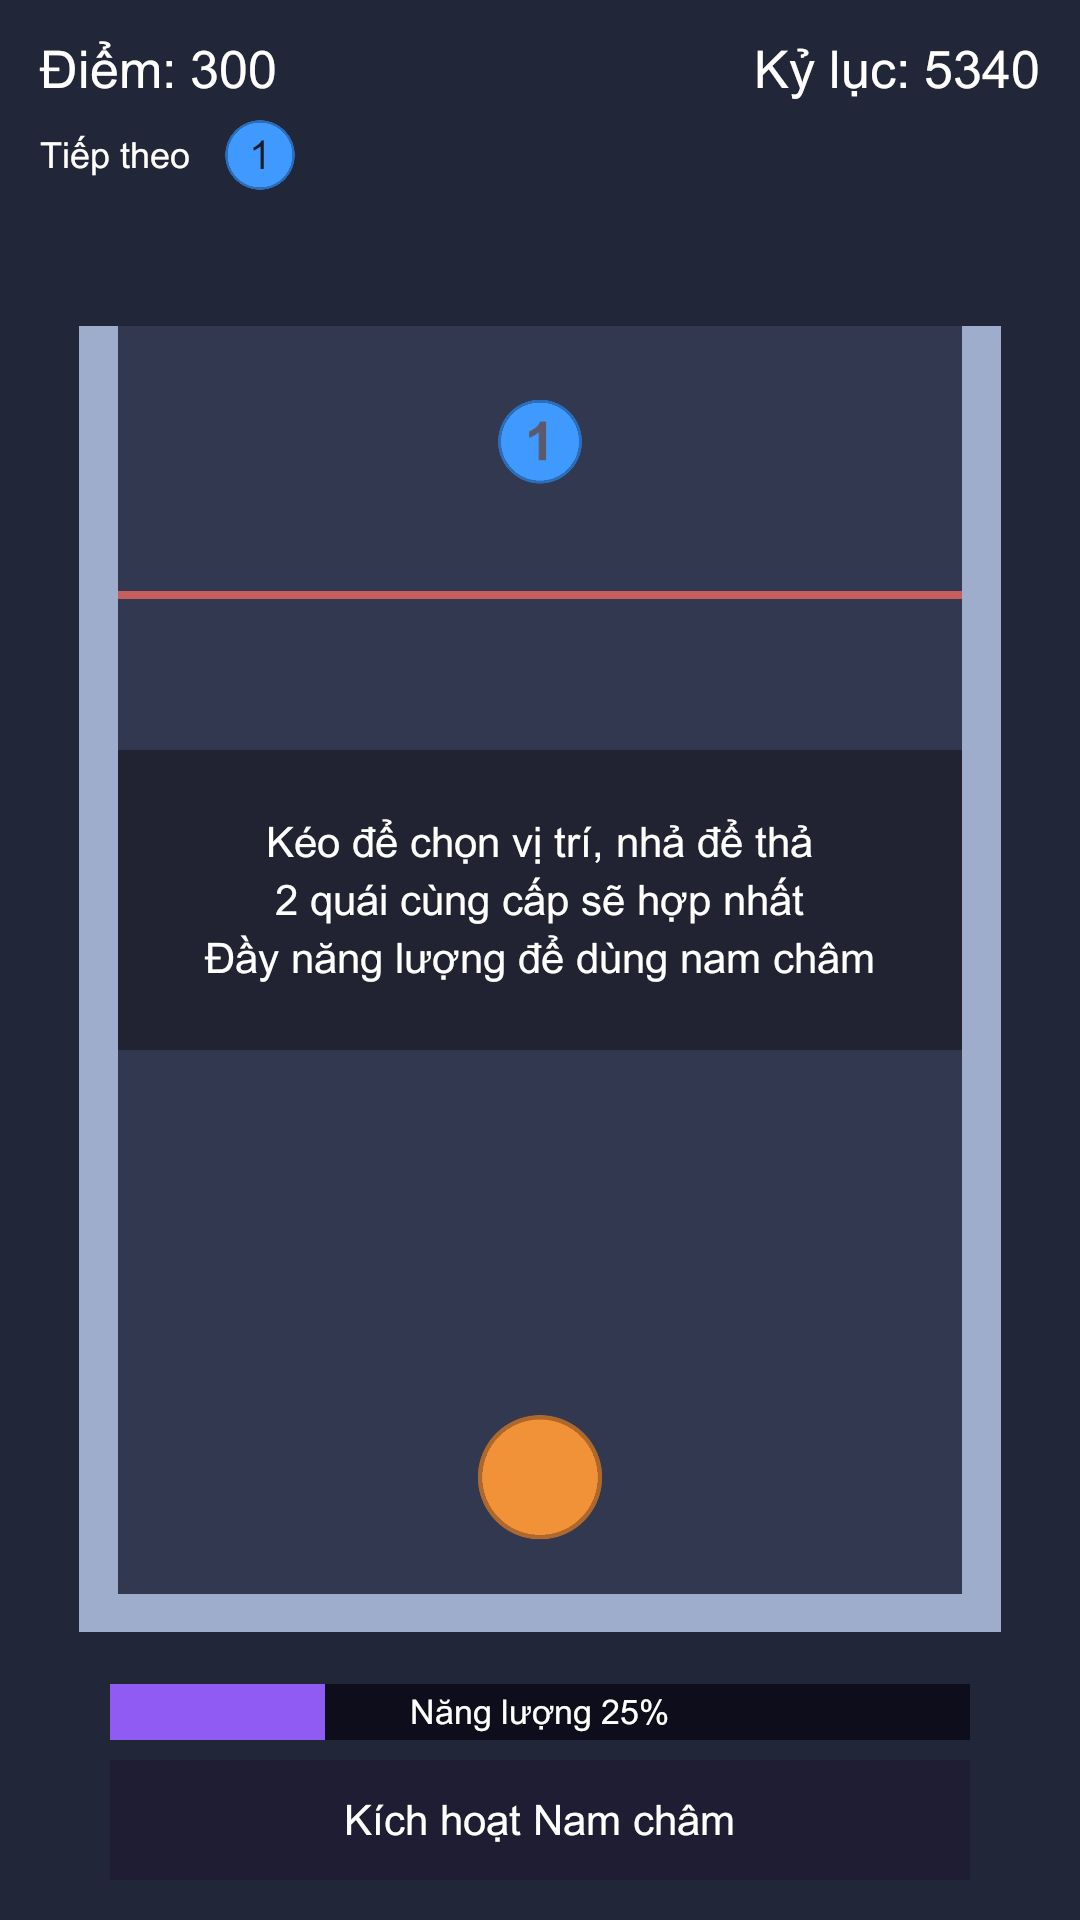
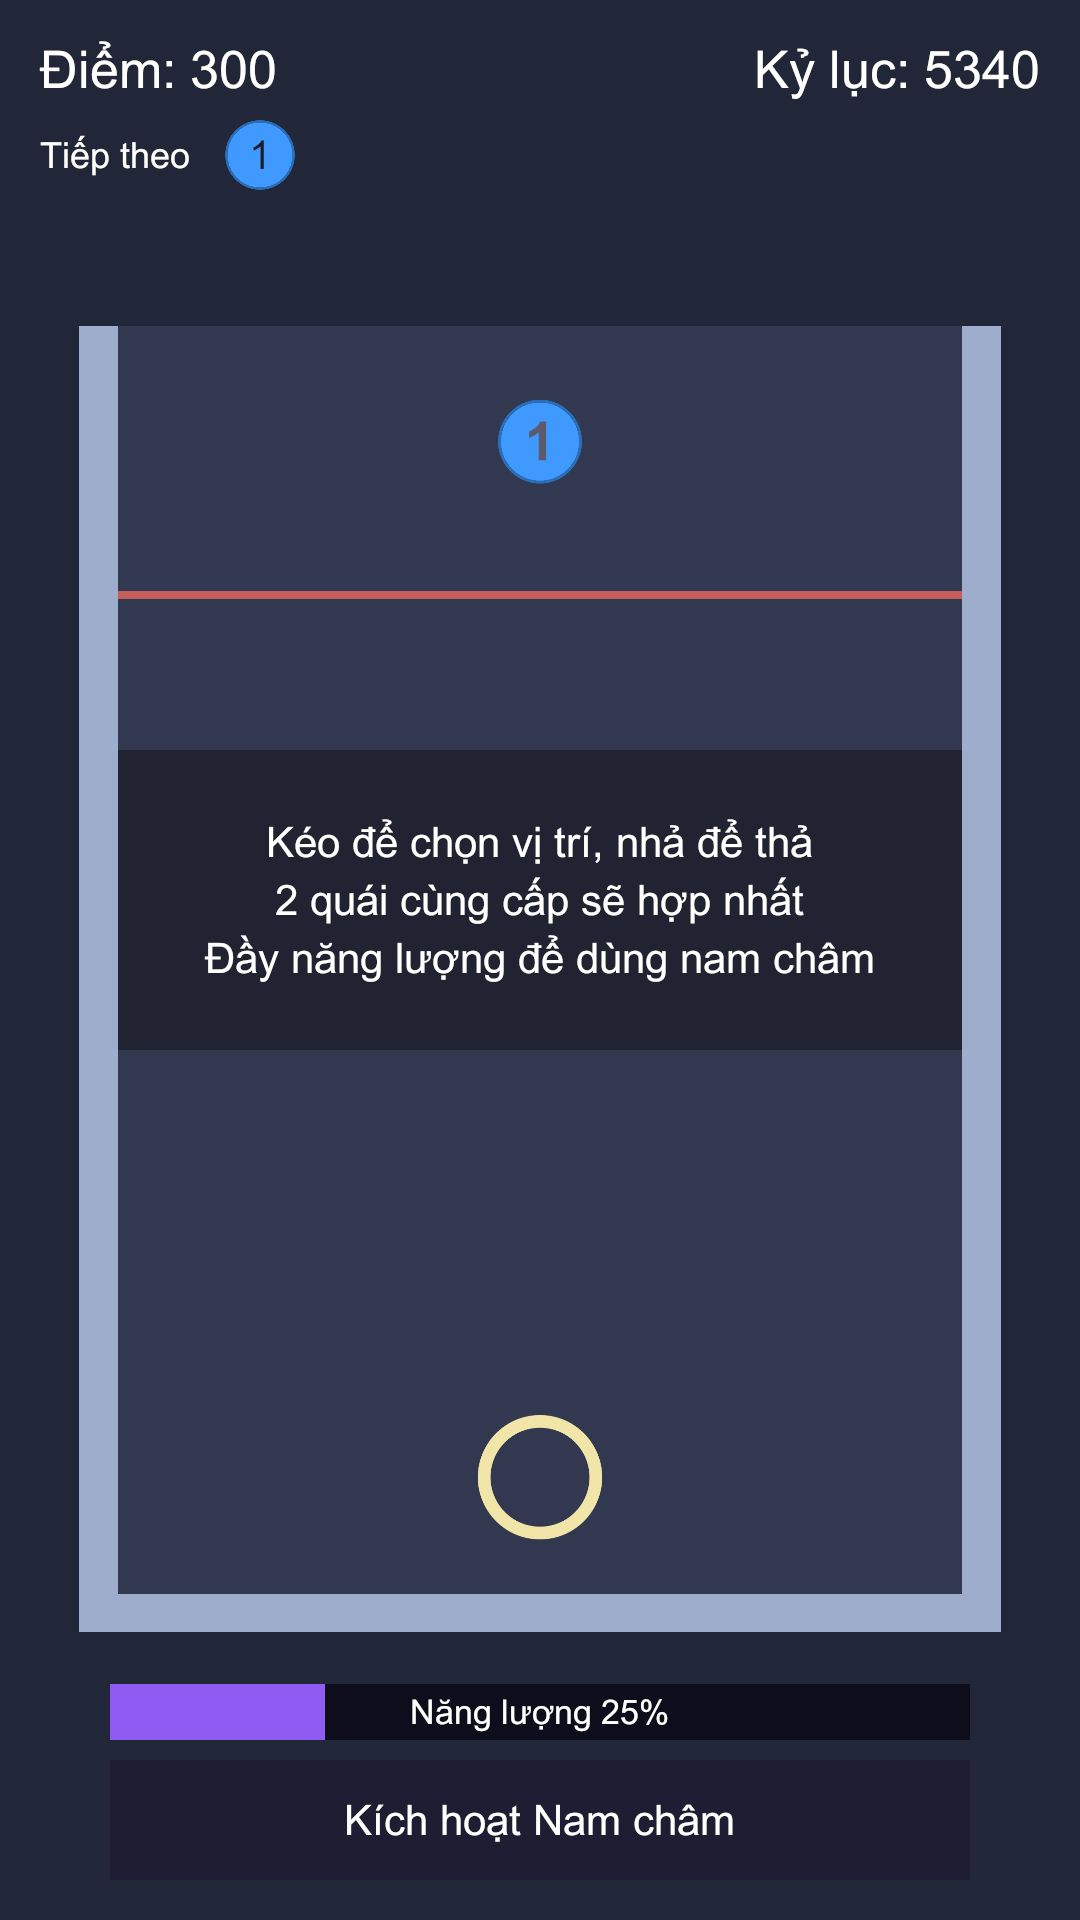
docs: cập nhật báo cáo v0.2 cho TASK-03 và TASK-04
Thêm kết quả test, quyết định triển khai, hướng dẫn bật/tắt juice
trong phiếu playtest và ảnh bằng chứng mới.

Task: TASK-03, TASK-04 trong production/monster-merge-tasks-v0.2.md

Changed region(s): [[0.4278, 0.7188, 0.5806, 0.8125]]

diff --git a/production/qa/V02_TEST_REPORT.md b/production/qa/V02_TEST_REPORT.md
@@ -17,6 +17,8 @@ Nhãn: `AUTO-TEST PASS` (test tự động chạy thật), `MANUAL TEST PENDING`
 | 07/11/2026 | Baseline v0.1, commit `8d6199e` | 29 | 0 | 0 | 28 test và 1 test chụp màn hình |
 | 07/11/2026 | Sau TASK-01, chưa commit | 35 | 0 | 0 | 29 cũ không hồi quy, thêm 6 test mới; Console không có lỗi |
 | 07/11/2026 | Sau TASK-02, chưa commit | 40 | 0 | 0 | Thêm 5 test mới, điều chỉnh 5 test cũ (xem dưới); chạy lại sau khi dời ô thông báo, vẫn 40/40 |
+| 07/11/2026 | Sau TASK-03, chưa commit | 43 | 0 | 0 | Thêm 3 test; lần chạy đầu 42/1 do `T03b` đo sai thời điểm (xem dưới); Console không có lỗi |
+| 07/11/2026 | Sau TASK-04, chưa commit | 47 | 0 | 0 | Thêm 4 test; scene dựng lại; Console không có lỗi |
 
 ## Test mới của TASK-01
 
@@ -55,6 +57,29 @@ TASK-02 yêu cầu không để UI trông như dùng được khi chưa có mụ
 
 Mục đích của từng test không đổi: không mất năng lượng sai, bấm UI không thả quái, hủy chọn được, Game Over chặn mọi thao tác.
 
+## Test mới của TASK-03
+
+| Test | Kịch bản | Kết quả | Khi tắt dòng giữ nhãn đứng |
+|---|---|---|---|
+| `V02_T03a_RotatedMonster_LabelStaysUpright` | Thân xoay 90°, 180°, 270°: nhãn lệch dưới 0,5° | AUTO-TEST PASS | Fail: lệch 90° |
+| `V02_T03b_SpinningMonster_KeepsSpinning_LabelUpright` | Quái quay 360°/giây: nhãn đứng ở mọi frame, quái vẫn quay | AUTO-TEST PASS | Fail: lệch 1,8° |
+| `V02_T03c_MergedMonster_LabelUprightAndNoLeftoverLabels` | Sau merge nhãn đứng; sau Restart chỉ còn nhãn của preview | AUTO-TEST PASS | Vẫn pass |
+
+Đã chạy lại 3 test này khi tạm tắt dòng giữ nhãn đứng để chắc test bắt được lỗi, rồi khôi phục code. `T03c` vẫn pass vì quái mới sinh luôn bắt đầu ở góc 0°, nên phần kiểm tra nhãn sau merge không phân biệt được; giá trị thật của test này là phần kiểm tra không còn nhãn sót sau Restart.
+
+`T03b` lần đầu fail với code đúng, lệch 1,4°. Nguyên nhân là test đo ngay sau `yield return null`, trước khi `LateUpdate` chạy. Đã đổi sang đo ở cuối frame (`WaitForEndOfFrame`), giữ nguyên ngưỡng 0,5°.
+
+## Test mới của TASK-04
+
+| Test | Kịch bản | Kết quả |
+|---|---|---|
+| `V02_T04a_TwentyFourMerges_FxPopupsAndSfxStayBounded` | 24 cặp Blip hợp nhất trong 2 đợt. Thực tế 40 merge (có chain), tối đa 8 vòng sáng và 6 popup cùng lúc (đúng giới hạn), 5 tiếng không chồng nhau; sau 1 giây không còn hiệu ứng | AUTO-TEST PASS |
+| `V02_T04b_VisualPop_AnimatesBodyNotPhysicsRoot` | Phần hình phình trên 5%, gốc vật lý không vượt đường kính, collider giữ bán kính 0,5, kết thúc về đúng kích thước | AUTO-TEST PASS |
+| `V02_T04c_JuiceDisabled_NoRingNoSfxNoPop_PopupKept` | Tắt juice: không vòng sáng, không tiếng, không pop; popup điểm của v0.1 vẫn còn | AUTO-TEST PASS |
+| `V02_T04d_ComboFromThree_IsEmphasized_OnlyWithJuice` | Combo x3: chữ đổi màu nhấn và phóng to; tắt juice thì không | AUTO-TEST PASS |
+
+Số tiếng ít hơn nhiều so với số merge vì nhiều merge rơi vào cùng frame và tiếng sau bị bỏ do khoảng cách tối thiểu 0,05 giây. Test chỉ chứng minh tiếng có phát và không chồng nhau; **chưa ai nghe thử** âm thanh.
+
 ## Soak (bot ngẫu nhiên, chỉ ClassicCap)
 
 | Ván | Game-time | Thả | Merge | Burst | Điểm |
@@ -69,7 +94,12 @@ Số liệu nam châm từ soak sau TASK-02 (bot không dùng kỹ năng): năng
 
 ## Bằng chứng hình ảnh
 
-Lưu tại `production/qa/evidence/prototype-v0.2/`: `mm_playing_9x16.jpg`, `mm_gameover_9x16.jpg`, `mm_playing_9x20.jpg`, `mm_overload_burst_9x16.jpg`, `mm_magni_can_2_9x16.jpg`, `mm_magni_ready_9x16.jpg`.
+Lưu tại `production/qa/evidence/prototype-v0.2/`: `mm_playing_9x16.jpg`, `mm_gameover_9x16.jpg`, `mm_playing_9x20.jpg`, `mm_overload_burst_9x16.jpg`, `mm_magni_can_2_9x16.jpg`, `mm_magni_ready_9x16.jpg`, `mm_labels_rotated_9x16.jpg`, `mm_merge_ring_9x16.jpg`.
+
+Quan sát từ ảnh TASK-04:
+- Vòng nổ burst giờ là vòng rỗng vàng nhạt, không còn nhầm với Crag.
+- Merge cặp Goo: vòng tím nhạt vẽ sau quái nên không che số; quái mới đang sáng và nảy. Vòng vàng ngoài cùng là vòng burst trước đó chưa tắt hẳn.
+- Popup "+60" không thấy trong ảnh, cùng hạn chế của cách chụp như popup "+300".
 
 Quan sát từ ảnh TASK-02:
 - Chỉ có 1 Magni: nút mờ, ghi "Cần 2 Magni".

diff --git a/production/qa/V02_IMPLEMENTATION_REPORT.md b/production/qa/V02_IMPLEMENTATION_REPORT.md
@@ -86,3 +86,66 @@ Cập nhật theo từng task. Yêu cầu gốc: `production/monster-merge-tasks
 
 - Chưa thử bằng chuột thật hay cảm ứng.
 - Chữ trên nút và thông báo vẫn viết thẳng trong code, chưa có hệ thống bản địa hóa. Prototype chỉ có tiếng Việt.
+
+## TASK-03: Nhãn số luôn đứng thẳng — IMPLEMENTED, AUTO-TEST PASS
+
+### File code
+
+| File | Thay đổi | Lý do |
+|---|---|---|
+| `Scripts/Monsters/Monster.cs` | Thêm `LateUpdate` đặt góc xoay của nhãn về 0 mỗi frame; thêm `LabelTransform` cho test | Thân vẫn xoay theo Rigidbody2D, chỉ nhãn được giữ đứng |
+| `Tests/MonsterMergePlayTests.cs` | Thêm 3 test `V02_T03*` | Xem `V02_TEST_REPORT.md` |
+| `Tests/MonsterMergeScreenshotTests.cs` | Thêm ảnh `mm_labels_rotated_9x16.jpg` | Bằng chứng hình ảnh |
+
+### Quyết định
+
+- Dùng nhãn con có sẵn, không tạo UI overlay, đúng gợi ý của task.
+- Chạy trong `LateUpdate` vì Rigidbody2D (Interpolate) cập nhật transform trước `Update`; đặt góc ở đây là bước cuối trước khi vẽ.
+- Nhãn không có collider, nên đổi góc nhãn không tạo lực. `T03b` xác nhận quái vẫn quay bình thường.
+- Không đổi prefab hay scene, nên không cần chạy builder.
+
+### Chưa xong (TASK-03)
+
+- Font trên Android: MANUAL TEST PENDING, chưa build APK.
+- Thân quái là hình tròn đều nên ảnh chụp không cho thấy thân đã xoay; bằng chứng thân xoay nằm ở `T03a`.
+
+## TASK-04: Juice hợp nhất tối thiểu — IMPLEMENTED, AUTO-TEST PASS
+
+### File code
+
+| File | Thay đổi | Lý do |
+|---|---|---|
+| `Scripts/Gameplay/MergeEffects.cs` | Viết lại: công tắc `JuiceEnabled`; vòng sáng merge; tiếng bíp tự sinh với 4 nguồn phát và khoảng cách tối thiểu; vòng burst đổi sang vàng nhạt, vẽ sau quái | Phản hồi hình và tiếng, có giới hạn |
+| `Scripts/Monsters/Monster.cs` | Thêm `PlayVisualPop` và `VisualPopScale`: nảy thân và số, không đụng transform gốc | Task yêu cầu animate visual child, không animate physics root |
+| `Scripts/UI/GameUI.cs` | Giới hạn 6 popup cùng lúc; combo từ x3 đổi màu và phóng to khi bật juice | Không phủ kín bể khi merge dồn dập |
+| `Scripts/Editor/MonsterMergeSceneBuilder.cs` | Sinh `Art/Ring.png` (vòng rỗng); nối `GameUI.effects` | Thay đổi scene đi qua builder |
+| `Tests/MonsterMergePlayTests.cs` | Thêm 4 test `V02_T04*` | Xem `V02_TEST_REPORT.md` |
+| `Tests/MonsterMergeScreenshotTests.cs` | Thêm ảnh `mm_merge_ring_9x16.jpg` | Bằng chứng hình ảnh |
+
+### Inspector
+
+`Managers` > `MergeEffects`:
+
+| Nhóm | Trường chính | Mặc định |
+|---|---|---|
+| Juice | `Juice Enabled` | bật |
+| Pop phần hình | `Visual Pop Duration`, `Visual Pop Overshoot` | 0,16 giây; 18% |
+| Vòng sáng merge | thời gian, kích thước đầu/cuối, độ pha trắng, độ trong | 0,25 giây; 1,0 đến 1,8 lần đường kính |
+| Burst | màu, thời gian, kích thước | vàng nhạt; 0,35 giây |
+| Giới hạn | `Max Active`, `Sorting Order` | 8; 3 (sau quái) |
+| Âm thanh | `Merge Clip`, `Sfx Volume`, `Sfx Muted`, `Sfx Min Interval`, `Sfx Voices`, cao độ | trống (dùng bíp tự sinh); 0,5; tắt; 0,05 giây; 4 |
+
+`Canvas` > `GameUI`: `Max Popups` (6), nhóm Combo (từ x3, màu, độ phóng, thời gian).
+
+### Quyết định
+
+- **Tắt `JuiceEnabled` thì quay về cảm giác v0.1:** vẫn giữ flash, popup điểm và việc gốc quái lớn dần 70% lên 100%. Tắt pop phần hình, vòng sáng merge, âm thanh, nhấn combo.
+- **Vòng nổ burst luôn bật** vì là phản hồi chức năng của TASK-01. Tiếng của burst thì theo công tắc juice.
+- **Giữ việc gốc quái lớn dần** để collider không đẩy văng quái bên cạnh. Pop mới chỉ chạy trên phần hình.
+- **Âm thanh:** project chưa có file âm thanh, nên dùng tiếng bíp sinh bằng code: sóng sin 660 Hz, 0,09 giây. Gắn clip vào `Merge Clip` để thay. Cấp càng cao cao độ càng thấp; burst thấp nhất.
+- Chưa có nút bật/tắt âm trong game; chỉnh trong Inspector.
+
+### Chưa xong (TASK-04)
+
+- Chưa ai nghe thử âm thanh; chưa thử trên Android.
+- Khi chạm giới hạn, merge mới sẽ không có vòng sáng hoặc popup. Đây là chủ ý, nhưng cần người chơi đánh giá có bị thiếu phản hồi không.

diff --git a/production/v0.2-scope-notes.md b/production/v0.2-scope-notes.md
@@ -5,7 +5,7 @@
 | Cập nhật | 07/11/2026 |
 | Yêu cầu gốc | `production/monster-merge-tasks-v0.2.md` |
 | Phiếu chơi thử | `production/qa/V02_PLAYTEST_FORM.md` |
-| Trạng thái | TASK-01 và TASK-02 đã xong. Chi tiết trong `production/qa/V02_IMPLEMENTATION_REPORT.md` và `production/qa/V02_TEST_REPORT.md` |
+| Trạng thái | TASK-01 đến TASK-04 đã xong. Chi tiết trong `production/qa/V02_IMPLEMENTATION_REPORT.md` và `production/qa/V02_TEST_REPORT.md` |
 
 ## Việc cần làm
 
@@ -13,8 +13,8 @@
 |---|---|---|---|
 | TASK-01 | P0 | `MaxTierMergeMode`: ClassicCap và OverloadBurst cho cặp cấp 5 | IMPLEMENTED, AUTO-TEST PASS; chơi tay A/B còn chờ |
 | TASK-02 | P0 | Lý do Magni không dùng được, làm nổi mục tiêu, hướng dẫn một lần, log | IMPLEMENTED, AUTO-TEST PASS; chơi tay còn chờ |
-| TASK-03 | P1 | Số trên quái luôn đứng thẳng | Chưa làm |
-| TASK-04 | P1 | Pop, vòng hiệu ứng, SFX, nhấn combo từ x3, `JuiceEnabled` | Chưa làm |
+| TASK-03 | P1 | Số trên quái luôn đứng thẳng | IMPLEMENTED, AUTO-TEST PASS; font Android còn chờ |
+| TASK-04 | P1 | Pop, vòng hiệu ứng, SFX, nhấn combo từ x3, `JuiceEnabled` | IMPLEMENTED, AUTO-TEST PASS; chưa nghe thử âm thanh |
 | TASK-05 | P1 | Hướng dẫn ngắn, phân biệt preview với Tiếp theo, cảnh báo tràn | Chưa làm |
 | TASK-06 | Bắt buộc | Chạy lại test v0.1, thêm test mới, soak cả hai chế độ | Chưa làm |
 | TASK-07 | P1/P2 | Người phát triển chơi 6 ván A/B | Chờ bản v0.2 |
@@ -26,7 +26,7 @@ Ràng buộc: không chiến đấu, enemy, shop, ads, tier 6; không cài packa
 
 ## Điểm cần người phát triển chốt trước khi code
 
-**07/11/2026:** người phát triển đồng ý các đề xuất dưới đây. Điểm 3: **giữ như GDD**, vẫn trừ năng lượng khi bắt đầu hút hợp lệ dù hai Magni bị kẹt. Điểm 7 sẽ chốt khi làm TASK-04.
+**07/11/2026:** người phát triển đồng ý các đề xuất dưới đây. Điểm 3: **giữ như GDD**, vẫn trừ năng lượng khi bắt đầu hút hợp lệ dù hai Magni bị kẹt. Điểm 7: dùng tiếng bíp sinh bằng code, có ô `Merge Clip` để thay bằng clip thật.
 
 | # | Vấn đề | Đề xuất |
 |---|---|---|

diff --git a/production/qa/V02_PLAYTEST_FORM.md b/production/qa/V02_PLAYTEST_FORM.md
@@ -51,4 +51,4 @@ Phiếu mẫu chưa có các mục dưới đây, nên được thêm vào để
 3. Đặt `Max Tier Mode` thành `ClassicCap` (A) hoặc `OverloadBurst` (B), rồi bấm Play. Không đổi khi đang chơi: bấm Chơi lại sẽ quay về giá trị trong Inspector.
 4. Cuối mỗi ván, Console ghi `[MonsterMerge] Hết ván: mode=..., điểm=..., thời gian=..., merge=..., burst=...`, có thể chép vào bảng trên.
 
-`JuiceEnabled` chưa có, sẽ thêm ở TASK-04. Chưa nên điền phiếu trước khi TASK-02 đến TASK-05 xong, vì các ván phải chơi trên cùng một bản build.
+**Bật/tắt juice:** `Managers` > `MergeEffects` > `Juice Enabled`. Tắt thì quay về cảm giác v0.1 (vẫn có flash và popup điểm); bật thì có thêm pop, vòng sáng, tiếng bíp và nhấn combo. Đổi trước khi bấm Play. Chưa nên điền phiếu trước khi TASK-02 đến TASK-05 xong, vì các ván phải chơi trên cùng một bản build.
